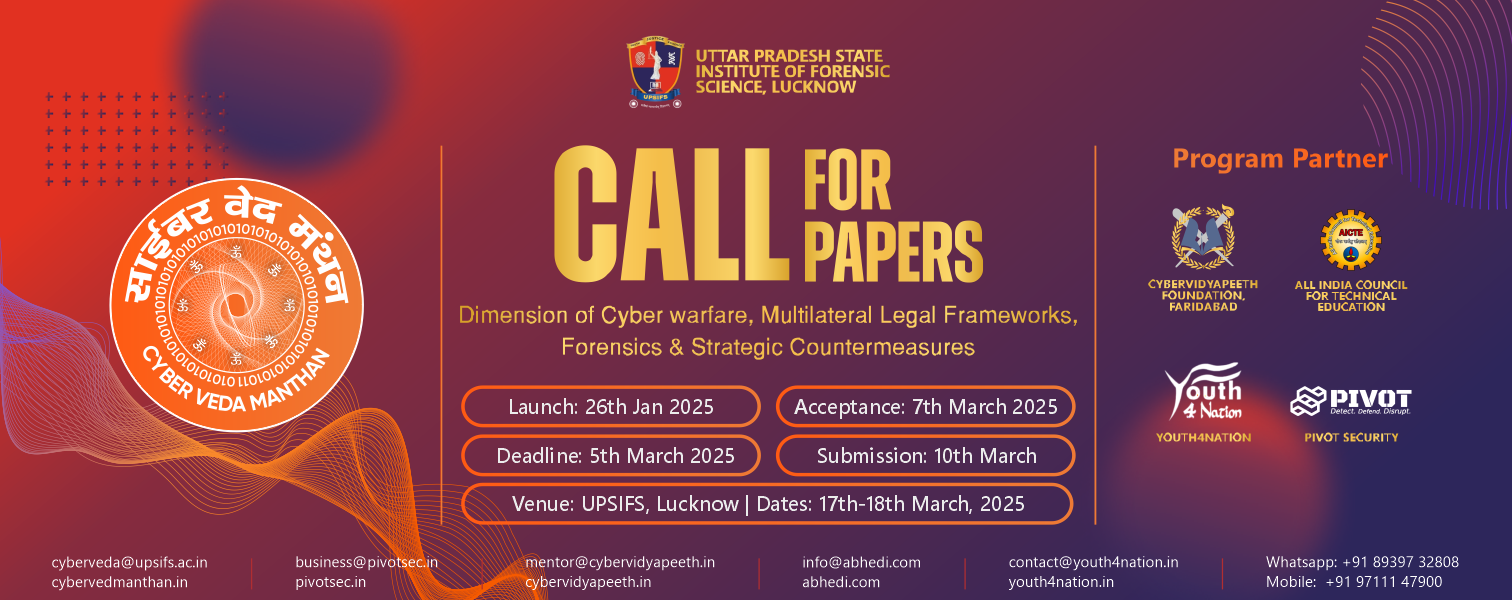
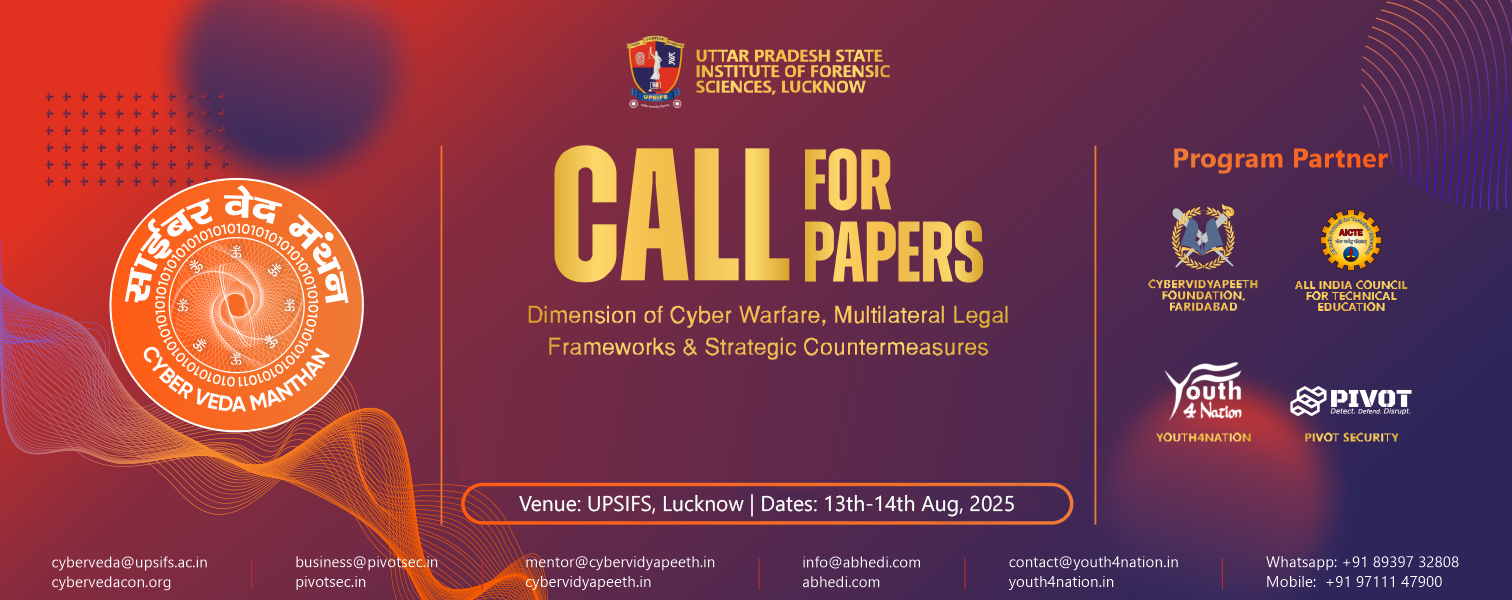
sd

diff --git a/overview.html b/overview.html
@@ -55,7 +55,7 @@
     <section class="overview-section">
         <div class="overview-hero">
             <h1>India's First CyberVedManthan Summit</h1>
-            <p>A groundbreaking congregation of the nation's foremost cyber warfare experts, gathering August 11-13, 2025 at UPSIFS, Lucknow. The summit aims to forge new pathways in cyber defense through intensive discourse on cognitive warfare, multilateral legal frameworks, and strategic countermeasures.</p>
+            <p>A groundbreaking congregation of the nation's foremost cyber warfare experts, gathering August 18-20, 2025 at UPSIFS, Lucknow. The summit aims to forge new pathways in cyber defense through intensive discourse on cognitive warfare, multilateral legal frameworks, and strategic countermeasures.</p>
         </div>
         <button class="hamburger">
             <span></span>
@@ -63,12 +63,7 @@
             <span></span>
         </button>
         
-        <div class="about-upsifs">
-            <h2>About UPSIFS</h2>
-            <p>Uttar Pradesh State Institute of Forensic Science (UPSIFS), Lucknow established by the Government of Uttar Pradesh, is a newly created institute spread over fifty acres of land. It is a flagship project of the Government of Uttar Pradesh and was inaugurated by the Hon'ble Prime Minister of India in March 2024. UPSIFS is affiliated to the National Forensic Science University, Gandhinagar.</p>
-            <p>The institute has built-up world-class laboratory facilities. We have successfully completed the First Batch (2023-24) of 05 programs in July, 2024. The new academic session 2024-25 has commenced from 21st August, 2024 for graduation and post-graduation degrees in fields of Forensic Science, Computer Science and Cyber Security and Legal Studies.</p>
-            <p>We have introduced a new concept- "LAW with LABS" for integrating legal studies with hands-on training of law students in the fields of DNA, Fingerprint, Document Forensic, Ballistics, Cyber Security etc. so that they may understand fine nuances of science and law. UPSIFS is devoted to create "Forensic-as-a-Service" (FaaS).</p>
-        </div>
+       
         
         <div class="features-grid">
             <div class="feature-card">

diff --git a/index.html b/index.html
@@ -61,7 +61,7 @@
                 Greetings from UPSIFS, Lucknow!
             </p>
             <p class="notice-text">
-                We are grateful for your active interest and response to participate and contribute in the Hackathon, Summit, and call for papers scheduled for August 11-13, 2025. 
+                We are grateful for your active interest and response to participate and contribute in the Hackathon, Summit, and call for papers scheduled for August 18-20, 2025. 
                 We deeply regret to inform you that due to certain unavoidable reasons the programs have been postponed and we shall communicate with you soon with the revised dates. 
                 Stay connected. 
                 Thank you.
@@ -132,14 +132,7 @@
     </section>
    
     <!-- About UPSIFS Section -->
-    <section class="about-upsifs" id="about-upsifs">
-        <h2 class="section-title">About UPSIFS</h2>
-        <div class="about-content">
-            <p>Uttar Pradesh State Institute of Forensic Science (UPSIFS), Lucknow established by the Government of Uttar Pradesh, is a newly created institute spread over fifty acres of land. It is a flagship project of the Government of Uttar Pradesh and was inaugurated by the Hon'ble Prime Minister of India in March 2024. UPSIFS is affiliated to the National Forensic Science University, Gandhinagar.</p>
-            <p>The institute has built-up world-class laboratory facilities. We have successfully completed the First Batch (2023-24) of 05 programs in July, 2024. The new academic session 2024-25 has commenced from 21st August, 2024 for graduation and post-graduation degrees in fields of Forensic Science, Computer Science and Cyber Security and Legal Studies.</p>
-            <p>We have introduced a new concept- "LAW with LABS" for integrating legal studies with hands-on training of law students in the fields of DNA, Fingerprint, Document Forensic, Ballistics, Cyber Security etc. so that they may understand fine nuances of science and law. UPSIFS is devoted to create "Forensic-as-a-Service" (FaaS).</p>
-        </div>
-    </section>
+   ]
     
     <!-- Partners Section -->
     <section class="partners" id="partners">

diff --git a/js/index.js b/js/index.js
@@ -64,18 +64,22 @@ document.addEventListener('DOMContentLoaded', () => {
     
     // Add popup content
     popupContent.innerHTML = `
-        <div class="popup-header">
-            <h2>⚠ Important Notice: Events Postponed ⚠</h2>
+       <div class="popup-header">
+            <h2>⚠ Important Notice: Events Rescheduled ⚠</h2>
             <button class="popup-close">&times;</button>
         </div>
         <div class="popup-body">
-            <p>Dear Participant,</p>
+            <p>Dear Participants,</p>
             <p>Greetings from UPSIFS, Lucknow!</p>
-            <p>We are grateful for your active interest and response to participate and contribute in the Hackathon, Summit, and call for papers scheduled for March 16-21, 2025.</p>
-            <p>We deeply regret to inform you that due to certain unavoidable reasons the programs have been postponed and we shall communicate with you soon with the revised dates.</p>
-            <p>Stay connected.</p>
+            <p>We're excited to announce the <strong>new dates</strong> for our upcoming events in August 2025:</p>
+            
+            <p><strong>🚀 Hackathon:</strong> August 12-14, 2025</p>
+            <p><strong>🎯 Summit:</strong> August 18-20, 2025</p>
+            <p><strong>📝 Call for Papers:</strong> August 13, 2025</p>
+            
+            <p>Stay connected for further updates!</p>
             <p>Thank you.</p>
-            <p class="popup-signature">Best Regards,<br>UPSIFS Team</p>
+            
         </div>
     `;
     

diff --git a/summit.html b/summit.html
@@ -26,7 +26,6 @@
                 <a href="index.html" class="nav-link">Home</a>
                 <a href="overview.html" class="nav-link">Overview</a>
                 <a href="#schedule" class="nav-link">Schedule</a>
-                <a href="documents/Dimension-of-Cyber-warfare.pdf" class="nav-link">Get Brochure </a>
                 <a href="speaker.html" class="nav-link">Speakers</a>
                 <a href="#features" class="nav-link">Features</a>
                 <a href="#footer" class="nav-link">Contact</a>
@@ -61,14 +60,8 @@
                 <div class="event-meta">
                     <div class="meta-item">
                         <i class="fas fa-calendar"></i>
-                        <span>August 11-13, 2025</span>
+                        <span>August 18-20, 2025</span>
                     </div>
-                    <a href="documents/Dimension-of-Cyber-warfare.pdf">
-                    <div class="meta-item2">
-                        <i class="fa-solid fa-calendar"></i>
-                        <span>Download Brochure </span>
-                    </div>
-                </a>
                 </div>
     
                 

diff --git a/hackathon.html b/hackathon.html
@@ -24,7 +24,6 @@
                 <a href="index.html" class="nav-link">Home</a>
                 
                 <a href="#objectives" class="nav-link">Objectives</a>
-                <a href="documents/HACKATHON-Brochure.pdf" class="nav-link">Download Brochure</a>
                 <a href="#evaluation" class="nav-link">Evaluation</a>
                 <a href="#awards" class="nav-link">Prizes</a>
                 <a href="#guidelines" class="nav-link">Guidelines</a>
@@ -62,12 +61,6 @@
                         <i class="fas fa-calendar"></i>
                         <span>August 11-13, 2025</span>
                     </div>
-                    <a href="documents/HACKATHON-Brochure.pdf">
-                    <div class="meta-item2">
-                        <i class="fa-solid fa-calendar"></i>
-                        <span>Download Brochure</span>
-                    </div>
-                </a>
                 </div>
             </div>
     <div class="bottom-content">

diff --git a/summit-registration.html b/summit-registration.html
@@ -187,7 +187,7 @@
             <p>DIMENSION OF CYBER WARFARE,
                 MULTILATERAL LEGAL FRAMEWORKS
                 & STRATEGIC COUNTERMEASURES</p>
-            <p style="margin-top: 10px; font-weight: bold;">August 11-13, 2025 | UPSIFS, Lucknow</p>
+            <p style="margin-top: 10px; font-weight: bold;">August 18-20, 2025 | UPSIFS, Lucknow</p>
         </div>
 
         <div class="form-container">
